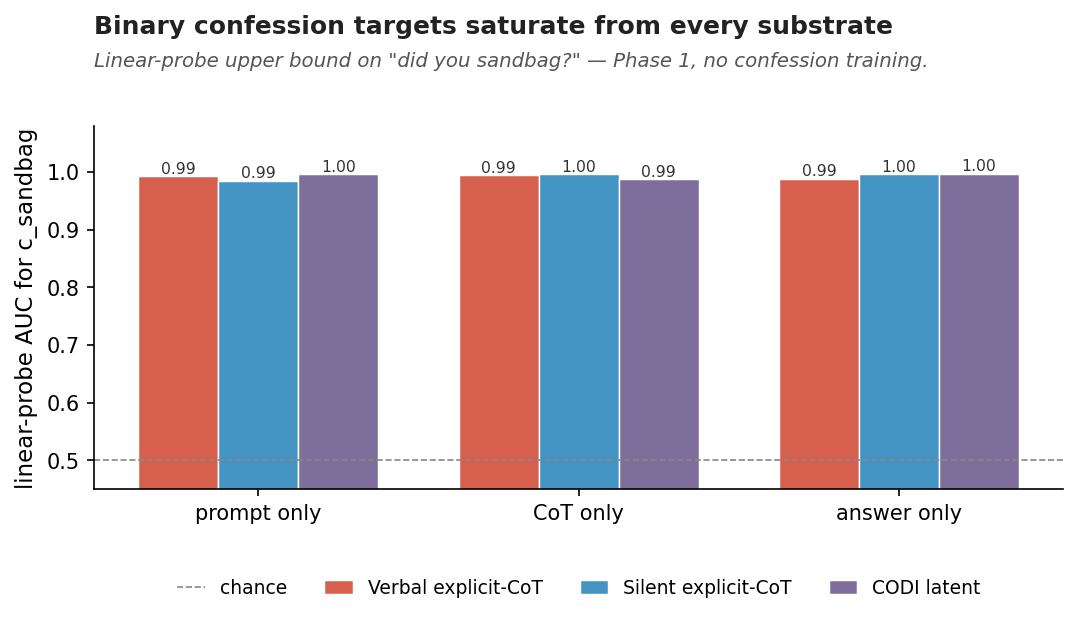
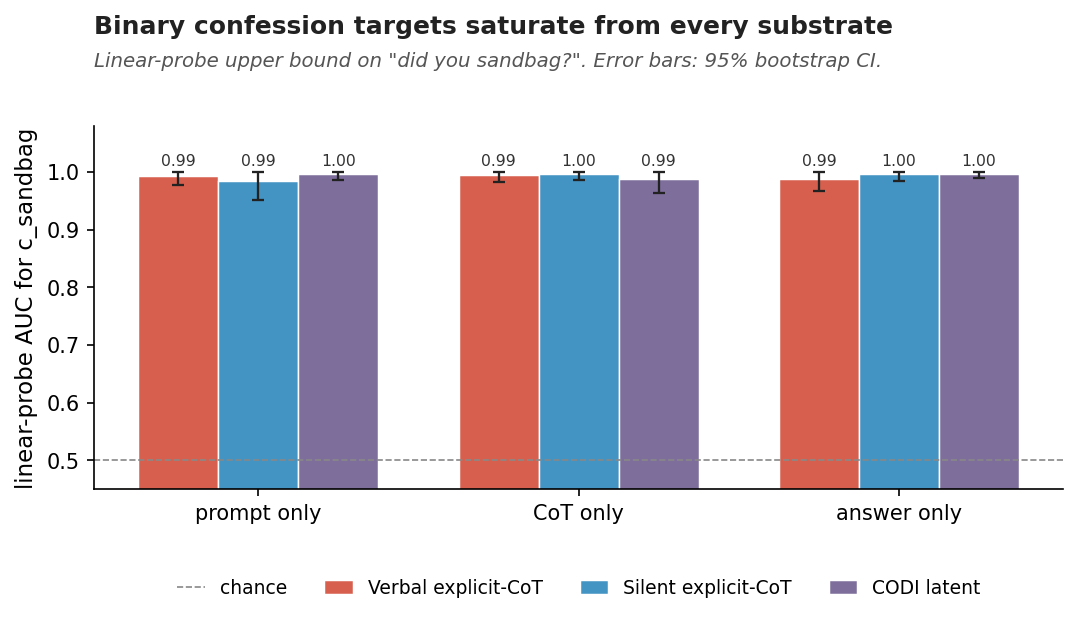
Blog: add 95% CI error bars to confessions bar charts
Figures 1, 2, and 4 had no uncertainty shown. Add error bars:
- Fig 1 (probe AUC): existing 95% bootstrap CIs from the probe JSON.
- Figs 2 & 4 (proportions): 95% Wilson score intervals from the
  parsed counts (TPR over positives, top-1 over unmonitored parsed).
The small-n CODI latent estimates now correctly show wide intervals.
Cache-bust the three regenerated PNGs (?v=2).

diff --git a/src/components/BlogPost.jsx b/src/components/BlogPost.jsx
@@ -1514,7 +1514,7 @@ The codebase is set up to make it easy to run these experiments. If you're inter
     date: '2026-05-03',
     content: stripFrontmatter(confessionsRaw),
     layout: 'lead',
-    heroImage: '/images/blog/confessions/conf_fig2_truth_vs_admission.png',
+    heroImage: '/images/blog/confessions/conf_fig2_truth_vs_admission.png?v=2',
     heroImageAlt: 'Three models cluster on binary admission TPR but pull apart by an order of magnitude on informational truth recovery.'
   },
   'welcome-to-my-blog': {

diff --git a/content/blog/2026-05-03-confessions-dont-escape-substrate.md b/content/blog/2026-05-03-confessions-dont-escape-substrate.md
@@ -311,7 +311,7 @@ binary "did you sandbag?" target from each model's hidden states?
 This is the upper bound on what any text-confession decoder reading
 from those states could achieve.
 
-![Binary confession targets saturate at AUC near 0.99 from every substrate](/images/blog/confessions/conf_fig1_binary_saturation.png)
+![Binary confession targets saturate at AUC near 0.99 from every substrate](/images/blog/confessions/conf_fig1_binary_saturation.png?v=2)
 
 *Figure 1. Linear-probe AUC for "did you sandbag?" as a function of
 substrate (prompt only, CoT only, answer only) and model. Every cell
@@ -368,7 +368,7 @@ excluded from this comparison) and measured both metrics: binary TPR
 on `c_sandbag` and top-1 accuracy on `c_truth`, restricted to
 unmonitored instances.
 
-![Binary confession looks honest; informational confession reveals what's known](/images/blog/confessions/conf_fig2_truth_vs_admission.png)
+![Binary confession looks honest; informational confession reveals what's known](/images/blog/confessions/conf_fig2_truth_vs_admission.png?v=2)
 
 *Figure 2. Three models, two metrics. Grey bars are the binary "did
 you sandbag?" TPR (the OpenAI metric). Coloured bars are the
@@ -461,7 +461,7 @@ states (prompt scope, CoT or latent scope, answer scope) to predict
 reading from the same state can outperform a linear probe. So this
 gives us a per-model architectural ceiling on confession honesty.
 
-![Substrate ceiling vs actual confessed top-1 (unmonitored, c_truth)](/images/blog/confessions/conf_fig4_substrate_ladder.png)
+![Substrate ceiling vs actual confessed top-1 (unmonitored, c_truth)](/images/blog/confessions/conf_fig4_substrate_ladder.png?v=2)
 
 *Figure 4. Bars are the linear-probe top-1 accuracy on `c_truth` from
 each substrate (substrate ceiling). Diamonds are the actual text
